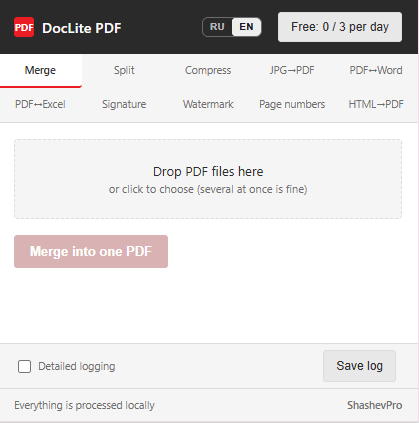
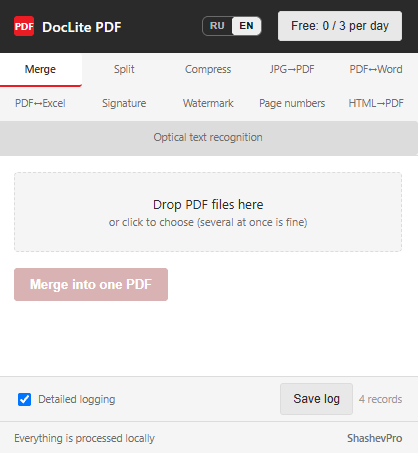
1.3.3: OCR — 11 tools, updated screenshots and docs

diff --git a/README.md b/README.md
@@ -4,8 +4,9 @@
 
 # DocLite PDF
 
-**Десять инструментов для работы с PDF прямо в браузере.
-Документы обрабатываются на вашем компьютере и никуда не загружаются.**
+**Одиннадцать инструментов для работы с PDF прямо в браузере, включая
+распознавание текста (OCR). Документы обрабатываются на вашем компьютере
+и никуда не загружаются.**
 
 [**Установить из Chrome Web Store**](https://chromewebstore.google.com/detail/doclite-pdf-%E2%80%94-10-%D0%B8%D0%BD%D1%81%D1%82%D1%80%D1%83%D0%BC%D0%B5/jdomnjidenomgdjpmnoegpfkjmhgfngn) · [Сайт продукта](https://www.shashevpro.ru/doclite/) · [English](README.en.md)
 
@@ -43,6 +44,7 @@ DocLite работает внутри браузера. Файл не перед
 | **Водяной знак** | Текст или картинка, наклон и прозрачность настраиваются |
 | **Нумерация** | Номера страниц в любом углу, с любой начальной цифры |
 | **HTML → PDF** | Веб-страница или свой HTML сохраняется как документ |
+| **Распознавание текста (OCR)** | Скан или фото — в PDF с текстовым слоем или сразу в Word |
 
 ---
 
@@ -50,17 +52,13 @@ DocLite работает внутри браузера. Файл не перед
 
 <div align="center">
 
-| Объединение | Разделение |
+| Объединение | Водяной знак |
 |---|---|
-| <img src="screenshots/merge-ru.png" width="380"> | <img src="screenshots/split-ru.png" width="380"> |
+| <img src="screenshots/merge-ru.png" width="380"> | <img src="screenshots/watermark-ru.png" width="380"> |
 
-| Сжатие | Водяной знак |
+| Подпись | Распознавание текста (OCR) |
 |---|---|
-| <img src="screenshots/compress-ru.png" width="380"> | <img src="screenshots/watermark-ru.png" width="380"> |
-
-| Подпись | Тарифы |
-|---|---|
-| <img src="screenshots/signature-ru.png" width="380"> | <img src="screenshots/pro-ru.png" width="380"> |
+| <img src="screenshots/signature-ru.png" width="380"> | <img src="screenshots/ocr-ru.png" width="380"> |
 
 </div>
 
@@ -68,7 +66,7 @@ DocLite работает внутри браузера. Файл не перед
 
 ## Сколько стоит
 
-**Бесплатно** — три операции в сутки. Не «три инструмента из десяти», а любые
+**Бесплатно** — три операции в сутки. Не «три инструмента из одиннадцати», а любые
 три: всё открыто сразу, ничего не заперто за платной стеной. Счётчик обнуляется
 каждый день, а ошибка обработки попытку не расходует.
 
@@ -80,7 +78,10 @@ DocLite работает внутри браузера. Файл не перед
 ## Приватность
 
 - Содержимое документов не покидает ваш компьютер и не передаётся никому.
-- В сеть уходит ровно один запрос: проверка ключа при активации платной версии.
+- В сеть уходят только два вида запросов: проверка ключа при активации
+  платной версии и — один раз, только если вы сами включите распознавание
+  текста — скачивание языковых моделей OCR (около 4 МБ на язык, дальше
+  распознавание работает офлайн).
 - Ни аналитики, ни счётчиков, ни рекламных сетей в расширении нет.
 - Доступа к содержимому посещаемых сайтов расширение не запрашивает.
 
@@ -96,9 +97,12 @@ DocLite работает внутри браузера. Файл не перед
   выделяться. Если документ должен остаться редактируемым текстом, используйте
   объединение или разделение без сжатия.
 - **PDF → Word и PDF → Excel работают с текстовыми PDF, а не со сканами.**
-  Распознавания текста с изображений в расширении нет.
+  Для сканов и фото — отдельный инструмент, распознавание текста (OCR).
 - **При конвертации сохраняются абзацы и структура, но не точная вёрстка**
   исходного документа. Рамки таблиц пока не восстанавливаются.
+- **OCR распознаёт русский и английский языки** и убирает явный мусор
+  (узоры, печати, водяные знаки), но не гарантирует идеальный результат
+  на сильно повреждённых или очень мелких сканах.
 
 ---
 

diff --git a/README.en.md b/README.en.md
@@ -4,8 +4,9 @@
 
 # DocLite PDF
 
-**Ten tools for working with PDF files, right inside your browser.
-Your documents are processed on your own computer and are never uploaded anywhere.**
+**Eleven tools for working with PDF files, right inside your browser,
+including text recognition (OCR). Your documents are processed on your own
+computer and are never uploaded anywhere.**
 
 [**Install from the Chrome Web Store**](https://chromewebstore.google.com/detail/doclite-pdf-%E2%80%94-10-%D0%B8%D0%BD%D1%81%D1%82%D1%80%D1%83%D0%BC%D0%B5/jdomnjidenomgdjpmnoegpfkjmhgfngn) · [Product website](https://www.shashevpro.ru/doclite/en/) · [Русский](README.md)
 
@@ -43,6 +44,7 @@ Turn off your network and see for yourself.
 | **Watermark** | Text or image, with adjustable tilt and opacity |
 | **Page numbers** | Any corner, starting from any number you like |
 | **HTML → PDF** | Save a web page or your own markup as a document |
+| **Text recognition (OCR)** | Turn a scan or photo into a searchable PDF or a Word file |
 
 ---
 
@@ -50,17 +52,13 @@ Turn off your network and see for yourself.
 
 <div align="center">
 
-| Merge | Split |
+| Merge | Watermark |
 |---|---|
-| <img src="screenshots/merge-en.png" width="380"> | <img src="screenshots/split-en.png" width="380"> |
+| <img src="screenshots/merge-en.png" width="380"> | <img src="screenshots/watermark-en.png" width="380"> |
 
-| Compress | Watermark |
+| Signature | Text recognition (OCR) |
 |---|---|
-| <img src="screenshots/compress-en.png" width="380"> | <img src="screenshots/watermark-en.png" width="380"> |
-
-| Signature | Pricing |
-|---|---|
-| <img src="screenshots/signature-en.png" width="380"> | <img src="screenshots/pro-en.png" width="380"> |
+| <img src="screenshots/signature-en.png" width="380"> | <img src="screenshots/ocr-en.png" width="380"> |
 
 </div>
 
@@ -68,7 +66,7 @@ Turn off your network and see for yourself.
 
 ## Pricing
 
-**Free** — three operations a day. Not "three tools out of ten", but any three:
+**Free** — three operations a day. Not "three tools out of eleven", but any three:
 everything is unlocked from the start, nothing is held behind a paywall. The
 counter resets daily, and a failed operation does not use up an attempt.
 
@@ -80,8 +78,10 @@ licence for one device.
 ## Privacy
 
 - Document contents never leave your computer and are shared with no one.
-- Exactly one network request is made: the licence check when you activate the
-  paid version.
+- Only two kinds of network request are ever made: the licence check when you
+  activate the paid version, and — once, only if you turn OCR on yourself —
+  downloading the OCR language models (about 4 MB per language; after that,
+  recognition runs offline).
 - No analytics, no telemetry, no advertising networks.
 - The extension does not request access to the content of the sites you visit.
 
@@ -97,9 +97,12 @@ An honest note on the limits, so there are no false expectations:
   selected. If the document has to stay editable text, use merge or split
   without compression.
 - **PDF → Word and PDF → Excel work with text-based PDFs, not with scans.**
-  The extension does not perform optical character recognition.
+  For scans and photos, use the separate text recognition (OCR) tool.
 - **Conversion preserves paragraphs and structure, but not the exact layout** of
   the source document. Table borders are not reconstructed yet.
+- **OCR recognizes Russian and English** and filters out obvious junk
+  (patterns, stamps, watermarks), but doesn't guarantee a perfect result on
+  badly damaged or very small scans.
 
 ---
 

diff --git a/CHANGELOG.md b/CHANGELOG.md
@@ -1,5 +1,21 @@
 # История версий · Changelog
 
+## 1.3.3 — распознавание текста (OCR)
+
+- Новый инструмент: распознавание текста — скан или фото в PDF с текстовым
+  слоем или сразу в Word
+  *New tool: text recognition (OCR) — turn a scan or photo into a searchable
+  PDF or a Word file*
+- Русский и английский языки, автоматическое определение поворота страницы,
+  фильтр мусора
+  *Russian and English, automatic page-rotation detection, a junk filter*
+- Языковые модели (~4 МБ на язык) скачиваются один раз по запросу и хранятся
+  в браузере — дальше распознавание работает офлайн
+  *Language models (~4 MB per language) download once, on request, and are
+  kept in the browser — recognition then runs offline*
+- Теперь одиннадцать инструментов вместо десяти
+  *Now eleven tools instead of ten*
+
 ## 1.0.1 — 6 сентября 2026
 
 Первая публичная версия в Chrome Web Store.
